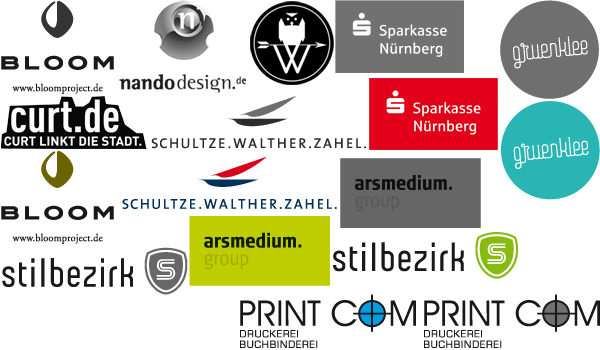
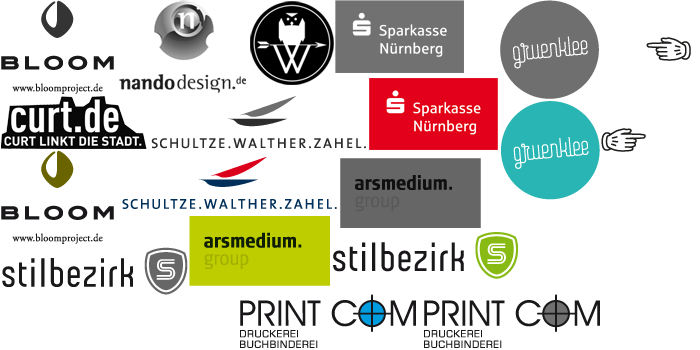
yo

diff --git a/preview/css/a3e4967.css b/preview/css/a3e4967.css
@@ -1,0 +1,1 @@
+article,aside,details,figcaption,figure,footer,header,hgroup,nav,section,summary{display:block}audio,canvas,video{display:inline-block;*display:inline;*zoom:1}audio:not([controls]){display:none}[hidden]{display:none}html{font-size:100%;-webkit-text-size-adjust:100%;-ms-text-size-adjust:100%}html,button,input,select,textarea{font-family:sans-serif;color:#222}body{margin:0;font-size:1em;line-height:1.4}::-moz-selection{background:#b3d4fc;text-shadow:none}::selection{background:#b3d4fc;text-shadow:none}a{color:#00e}a:visited{color:#551a8b}a:hover{color:#06e}a:focus{outline:thin dotted}a:hover,a:active{outline:0}abbr[title]{border-bottom:1px dotted}b,strong{font-weight:bold}blockquote{margin:1em 40px}dfn{font-style:italic}hr{display:block;height:1px;border:0;border-top:1px solid #ccc;margin:1em 0;padding:0}ins{background:#ff9;color:#000;text-decoration:none}mark{background:#ff0;color:#000;font-style:italic;font-weight:bold}pre,code,kbd,samp{font-family:monospace,serif;_font-family:'courier new',monospace;font-size:1em}pre{white-space:pre;white-space:pre-wrap;word-wrap:break-word}q{quotes:none}q:before,q:after{content:"";content:none}small{font-size:85%}sub,sup{font-size:75%;line-height:0;position:relative;vertical-align:baseline}sup{top:-0.5em}sub{bottom:-0.25em}ul,ol{margin:1em 0;padding:0 0 0 40px}dd{margin:0 0 0 40px}nav ul,nav ol{list-style:none;list-style-image:none;margin:0;padding:0}img{border:0;vertical-align:middle;-ms-interpolation-mode:bicubic}svg:not(:root){overflow:hidden}figure{margin:0}form{margin:0}fieldset{border:0;margin:0;padding:0}legend{border:0;padding:0;white-space:normal;*margin-left:-7px}button,input,select,textarea{font-size:100%;margin:0;vertical-align:baseline;*vertical-align:middle}button,input{line-height:normal}button,input[type="button"],input[type="reset"],input[type="submit"]{cursor:pointer;-webkit-appearance:button;*overflow:visible}button[disabled],input[disabled]{cursor:default}input[type="checkbox"],input[type="radio"]{box-sizing:border-box;padding:0;*width:13px;*height:13px}input[type="search"]{-webkit-appearance:textfield;-moz-box-sizing:content-box;-webkit-box-sizing:content-box;box-sizing:content-box}input[type="search"]::-webkit-search-decoration,input[type="search"]::-webkit-search-cancel-button{-webkit-appearance:none}button::-moz-focus-inner,input::-moz-focus-inner{border:0;padding:0}textarea{overflow:auto;vertical-align:top;resize:vertical}table{border-collapse:collapse;border-spacing:0}td{vertical-align:top}.chromeframe{margin:.2em 0;background:#ccc;color:#000;padding:.2em 0}*{-webkit-box-sizing:border-box;-moz-box-sizing:border-box;box-sizing:border-box}body{font-size:13px;background:#f5f5f5;font-weight:bold;font-family:arial;background:url(../img/fussel.png)}a,a:link,a:hover,a:active,a:visited{text-decoration:none;color:black}h1,h2,h3,p{font-size:1em;margin-top:1em;margin-bottom:1em}section{width:90%;margin:0 auto}#sponsoren{width:90%;margin:0 auto}#parallax{text-align:center;position:relative;margin:0 auto;width:100%;height:100%}.layer{position:absolute;left:0;top:0;margin-top:-13%;margin-left:-13%}#layer8{left:50%;top:50%;margin-left:-40%}#home{margin-top:0;width:100%;overflow:hidden;text-align:center}#subheadline{position:absolute;top:70%;width:100%}nav{width:80%;margin:0 auto}nav ul{list-style:none}nav ul li{display:inline}nav ul li:before{content:" | "}nav ul li:first-child:before{content:""}#sponsoren ul{padding:0;list-style:none}#sponsoren ul li{display:inline-block;text-align:center;margin:20px}#sponsoren ul li a{display:block}.bloom a{background:url('../img/sponsoren.png') no-repeat -1px 0;width:113px;height:94px}.bloom a:hover{background:url('../img/sponsoren.png') no-repeat -1px -150px;width:113px;height:94px}.nando a{background:url('../img/sponsoren.png') no-repeat -119px 0;width:127px;height:93px}.winter a{background:url('../img/sponsoren.png') no-repeat -250px -1px;width:84px;height:84px}.sparkasse a{background:url('../img/sponsoren.png') no-repeat -335px 0;width:129px;height:73px}.sparkasse a:hover{background:url('../img/sponsoren.png') no-repeat -369px -78px;width:129px;height:72px}.gruenklee a{background:url('../img/sponsoren.png') no-repeat -500px 0;width:99px;height:99px}.gruenklee a:hover{background:url('../img/sponsoren.png') no-repeat -501px -101px;width:99px;height:99px}.stilbezirk a{background:url('../img/sponsoren.png') no-repeat -2px -247px;width:186px;height:48px}.stilbezirk a:hover{background:url('../img/sponsoren.png') no-repeat -333px -232px;width:185px;height:47px}.curt a{background:url('../img/sponsoren.png') no-repeat -1px -96px;width:146px;height:53px}.swz a{background:url('../img/sponsoren.png') no-repeat -151px -96px;width:215px;height:53px}.swz a:hover{background:url('../img/sponsoren.png') no-repeat -122px -156px;width:215px;height:53px}.arsmedium a{background:url('../img/sponsoren.png') no-repeat -340px -158px;width:141px;height:70px}.arsmedium:hover a{background:url('../img/sponsoren.png') no-repeat -189px -216px;width:141px;height:70px}.printcom a{background:url('../img/sponsoren.png') no-repeat -424px -294px;width:176px;height:54px}.printcom:hover a{background:url('../img/sponsoren.png') no-repeat -240px -294px;width:176px;height:54px}#ausstellung{position:relative}#absolventen-liste{width:100%}#absolventen-liste ul{padding:0;list-style:none;-moz-column-count:2;-webkit-column-count:2}#absolventen-liste ul a:hover{border-bottom:2px solid black}#absolventen{position:relative}#slides{display:none}#gallery{position:relative;height:0;overflow:hidden}#gallery.open{height:100%;overflow:auto}#close{display:none;position:relative;z-index:100;width:100%;margin:5em 0 0 0;text-align:center}.open #close{display:block}#gallery img{max-width:100%;height:auto;width:auto;max-height:100%}.slide{position:relative;min-height:300px}.slide-inner{position:relative;left:0;top:0;width:100%;height:100%}.image{text-align:center}.image img{display:inline-block}.portrait{min-width:100px;min-height:100px}#overlay{position:fixed;width:100%;height:100%;background-color:blue;z-index:10000;display:none;color:white}#team{position:relative}#team table{width:100%}#ohm{width:100%}@media only screen and (min-device-width:768px) and (max-device-width:1024px) and (orientation:portrait){body{font-size:16px}#absolventen-liste ul{-webkit-column-count:3}.csstransforms3d #cube-container{width:400px;height:400px;position:absolute;top:50%;margin-top:-200px;left:50%;margin-left:-200px;-webkit-perspective:1000px;-moz-perspective:1000px;-o-perspective:1000px;-ms-perspective:1000px;perspective:1000px}.csstransforms3d #ausstellung #cube{width:400px;height:400px;-webkit-transform-style:preserve-3d;-moz-transform-style:preserve-3d;-o-transform-style:preserve-3d;-ms-transform-style:preserve-3d;transform-style:preserve-3d;-webkit-transform:translatez(-200px) rotatey(0deg) rotatez(10deg);-moz-transform:translatez(-200px) rotatey(0deg) rotatez(10deg);-ms-transform:translatez(-200px) rotatey(0deg) rotatez(10deg);-o-transform:translatez(-200px) rotatey(0deg) rotatez(10deg);-moz-animation:rotation 20s infinite 4s linear;-webkit-animation:rotation 20s infinite 4s linear;-o-animation:rotation 20s infinite 4s linear;-ms-animation:rotation 20s infinite 4s linear;-webkit-animation-play-state:paused;-moz-animation-play-state:paused}.csstransforms3d #ausstellung.section-active #cube{-moz-animation-play-state:running;-webkit-animation-play-state:running}.csstransforms3d .cubeface{background-color:white;width:400px;height:400px;padding:0 15px;position:absolute;-webkit-backface-visibility:visible;-moz-backface-visibility:visible;-o-backface-visibility:visible;-ms-backface-visibility:visible;backface-visibility:visible}.csstransforms3d #cube .cubefront{-webkit-transform:rotatey(0deg) translatez(200px);-moz-transform:rotatey(0deg) translatez(200px);-ms-transform:rotatey(0deg) translatez(200px);-o-transform:rotatey(0deg) translatez(200px)}.csstransforms3d #cube .cubeback{-webkit-transform:rotatey(180deg) translatez(200px);-moz-transform:rotatey(180deg) translatez(200px);-ms-transform:rotatey(180deg) translatez(200px);-o-transform:rotatey(180deg) translatez(200px)}.csstransforms3d #cube .cuberight{-webkit-transform:rotatey(90deg) translatez(200px);-moz-transform:rotatey(90deg) translatez(200px);-ms-transform:rotatey(90deg) translatez(200px);-o-transform:rotatey(90deg) translatez(200px)}.csstransforms3d #cube .cubeleft{-webkit-transform:rotatey(-90deg) translatez(200px);-moz-transform:rotatey(-90deg) translatez(200px);-ms-transform:rotatey(-90deg) translatez(200px);-o-transform:rotatey(-90deg) translatez(200px)}.csstransforms3d #cube .cubetop{-webkit-transform:rotatex(90deg) translatez(200px);-moz-transform:rotatex(90deg) translatez(200px);-ms-transform:rotatex(90deg) translatez(200px);-o-transform:rotatex(90deg) translatez(200px)}.csstransforms3d #cube .cubedown{-webkit-transform:rotatex(-90deg) translatez(200px);-moz-transform:rotatex(-90deg) translatez(200px);-ms-transform:rotatex(-90deg) translatez(200px);-o-transform:rotatex(-90deg) translatez(200px)}@-webkit-keyframes rotation{0%{-webkit-transform:translatez(-200px) rotatey(0deg) rotatez(10deg)}25%{-webkit-transform:translatez(-200px) rotatey(-90deg) rotatez(10deg)}50%{-webkit-transform:translatez(-200px) rotatey(-180deg) rotatez(10deg)}75%{-webkit-transform:translatez(-200px) rotatey(-270deg) rotatez(10deg)}100%{-webkit-transform:translatez(-200px) rotatey(-360deg) rotatez(10deg)}}}@media only screen and (min-width:950px){body{font-size:16px}nav ul li:before{display:none}#gallery{width:750px;position:relative}.slide-inner{position:relative;left:0;top:0;width:100%;height:100%;cursor:none}.daten{float:left;position:relative;width:50%;min-height:200px;padding:0 15px}.title{margin:0;height:25%}.name{height:25%;margin:0}.profs{height:25%;margin:0}.kontakt{height:25%;margin:0;position:relative}.kontakt p{position:absolute;bottom:0;margin:0}.portrait{position:relative;float:left;width:50%;min-height:100px;min-width:100px}.portrait img{width:100%;height:auto;display:block}.konzept h2{margin:0}.konzept p.long{-moz-column-count:2;-webkit-column-count:2;margin-top:0}section{width:750px;padding:0}#sponsoren{width:750px}#sponsoren ul li a:hover{-moz-transition:-moz-transform .2s ease-out;-moz-transform:scale(1.1);-webkit-transition:-webkit-transform .2s ease-out;-webkit-transform:scale(1.1);transition:transform .2s ease-out;transform:scale(1.1);transition:transform .2s ease-out;transform:scale(1.1)}#absolventen-liste{padding:0 15px}#absolventen-liste ul{-moz-column-count:3;-webkit-column-count:3}#impressum{padding:0 15px}#cursor{z-index:10000;width:90px;height:90px;margin-left:-45px;margin-top:-45px;position:fixed;left:0;top:0;pointer-events:none;background-repeat:no-repeat}#cursor.gallery.left{display:block;background:url('../img/sponsoren.png') no-repeat -601px 0;width:90px;height:90px}#cursor.gallery.right{display:block;background:url('../img/sponsoren.png') no-repeat -601px -91px;width:90px;height:90px}#cursor.brille{background:url('../img/brille.png') no-repeat}#absolventen-liste ul{-webkit-column-count:3}.csstransforms3d #cube-container{width:400px;height:400px;position:absolute;top:50%;margin-top:-200px;left:50%;margin-left:-200px;-webkit-perspective:1000px;-moz-perspective:1000px;-o-perspective:1000px;-ms-perspective:1000px;perspective:1000px}.csstransforms3d #ausstellung #cube{width:400px;height:400px;-webkit-transform-style:preserve-3d;-moz-transform-style:preserve-3d;-o-transform-style:preserve-3d;-ms-transform-style:preserve-3d;transform-style:preserve-3d;-webkit-transform:translatez(-200px) rotatey(0deg) rotatez(10deg);-moz-transform:translatez(-200px) rotatey(0deg) rotatez(10deg);-ms-transform:translatez(-200px) rotatey(0deg) rotatez(10deg);-o-transform:translatez(-200px) rotatey(0deg) rotatez(10deg);-moz-animation:rotation 20s infinite 3s linear;-webkit-animation:rotation 20s infinite 3s linear;-o-animation:rotation 20s infinite 3s linear;-ms-animation:rotation 20s infinite 3s linear;-webkit-animation-play-state:paused;-moz-animation-play-state:paused}.csstransforms3d #ausstellung.section-active #cube{-moz-animation-play-state:running;-webkit-animation-play-state:running}.csstransforms3d .cubeface{background-color:white;width:400px;height:400px;padding:0 15px;position:absolute;-webkit-backface-visibility:visible;-moz-backface-visibility:visible;-o-backface-visibility:visible;-ms-backface-visibility:visible;backface-visibility:visible}.csstransforms3d #cube .cubefront{-webkit-transform:rotatey(0deg) translatez(200px);-moz-transform:rotatey(0deg) translatez(200px);-ms-transform:rotatey(0deg) translatez(200px);-o-transform:rotatey(0deg) translatez(200px)}.csstransforms3d #cube .cubeback{-webkit-transform:rotatey(180deg) translatez(200px);-moz-transform:rotatey(180deg) translatez(200px);-ms-transform:rotatey(180deg) translatez(200px);-o-transform:rotatey(180deg) translatez(200px)}.csstransforms3d #cube .cuberight{-webkit-transform:rotatey(90deg) translatez(200px);-moz-transform:rotatey(90deg) translatez(200px);-ms-transform:rotatey(90deg) translatez(200px);-o-transform:rotatey(90deg) translatez(200px)}.csstransforms3d #cube .cubeleft{-webkit-transform:rotatey(-90deg) translatez(200px);-moz-transform:rotatey(-90deg) translatez(200px);-ms-transform:rotatey(-90deg) translatez(200px);-o-transform:rotatey(-90deg) translatez(200px)}.csstransforms3d #cube .cubetop{-webkit-transform:rotatex(90deg) translatez(200px);-moz-transform:rotatex(90deg) translatez(200px);-ms-transform:rotatex(90deg) translatez(200px);-o-transform:rotatex(90deg) translatez(200px)}.csstransforms3d #cube .cubedown{-webkit-transform:rotatex(-90deg) translatez(200px);-moz-transform:rotatex(-90deg) translatez(200px);-ms-transform:rotatex(-90deg) translatez(200px);-o-transform:rotatex(-90deg) translatez(200px)}@-webkit-keyframes rotation{0%{-webkit-transform:translatez(-200px) rotatey(0deg) rotatez(10deg)}25%{-webkit-transform:translatez(-200px) rotatey(-90deg) rotatez(10deg)}50%{-webkit-transform:translatez(-200px) rotatey(-180deg) rotatez(10deg)}75%{-webkit-transform:translatez(-200px) rotatey(-270deg) rotatez(10deg)}100%{-webkit-transform:translatez(-200px) rotatey(-360deg) rotatez(10deg)}}@-moz-keyframes rotation{0%{-moz-transform:translatez(-200px) rotatey(0deg) rotatez(10deg)}25%{-moz-transform:translatez(-200px) rotatey(-90deg) rotatez(10deg)}50%{-moz-transform:translatez(-200px) rotatey(-180deg) rotatez(10deg)}75%{-moz-transform:translatez(-200px) rotatey(-270deg) rotatez(10deg)}100%{-moz-transform:translatez(-200px) rotatey(-360deg) rotatez(10deg)}}.home-link{z-index:1000;display:block;width:80px;height:80px;position:fixed;top:0;left:0}.top-left{display:block;position:absolute;width:0;height:0;border-style:solid;border-width:80px 80px 0 0;border-color:#000 transparent transparent transparent}.home-link:hover .top-left,.home-link.link-active .top-left{border-color:#232323 transparent transparent transparent}.home-link .text{display:block;-webkit-transform:rotate(-45deg);-moz-transform:rotate(-45deg);-ms-transform:rotate(-45deg);-o-transform:rotate(-45deg);position:absolute;top:35px;left:30px}.ausstellung-link{z-index:1000;display:block;position:fixed;width:80px;height:80px;top:0;right:0}.top-right{display:block;position:absolute;width:0;height:0;border-style:solid;border-width:0 80px 80px 0;border-color:transparent #000 transparent transparent}.ausstellung-link:hover .top-right,.ausstellung-link.link-active .top-right{border-color:transparent #232323 transparent transparent}.ausstellung-link .text{display:block;-webkit-transform:rotate(45deg);-moz-transform:rotate(45deg);-ms-transform:rotate(45deg);-o-transform:rotate(45deg);position:absolute;top:35px;right:4px}.absolventen-link{z-index:1000;display:block;position:fixed;width:80px;height:80px;bottom:0;right:0}.bottom-right{display:block;position:absolute;width:0;height:0;border-style:solid;border-width:0 0 80px 80px;border-color:transparent transparent #000 transparent}.absolventen-link:hover .bottom-right,.absolventen-link.link-active .bottom-right{border-color:transparent transparent #232323 transparent}.absolventen-link .text{display:block;-webkit-transform:rotate(-45deg);-moz-transform:rotate(-45deg);-ms-transform:rotate(-45deg);-o-transform:rotate(-45deg);position:absolute;bottom:35px;right:4px}.impressum-link{z-index:1000;display:block;position:fixed;width:80px;height:80px;bottom:0;left:0}.bottom-left{display:block;position:absolute;width:0;height:0;border-style:solid;border-width:100px 0 0 100px;border-color:transparent transparent transparent #000}.impressum-link:hover .bottom-left,.impressum-link.link-active .bottom-left{border-color:transparent transparent transparent #141414}.impressum-link .text{display:block;-webkit-transform:rotate(45deg);-moz-transform:rotate(45deg);-ms-transform:rotate(45deg);-o-transform:rotate(45deg);position:absolute;bottom:38px;left:7px}}@media only screen and (min-width:1000px){section{width:900px}#sponsoren{width:900px}#gallery{width:900px}}@media only screen and (min-width:1250px){.image{text-align:center}.image img{display:inline-block}#gallery{width:1200px}section{width:1200px;padding:0}#sponsoren{width:1200px}#ohm{width:1200px}}.ir{border:0;font:0/0 a;text-shadow:none;color:transparent;background-color:transparent}.hidden{display:none!important;visibility:hidden}.visuallyhidden{border:0;clip:rect(0 0 0 0);height:1px;margin:-1px;overflow:hidden;padding:0;position:absolute;width:1px}.visuallyhidden.focusable:active,.visuallyhidden.focusable:focus{clip:auto;height:auto;margin:0;overflow:visible;position:static;width:auto}.invisible{visibility:hidden}.clearfix:before,.clearfix:after{content:"";display:table}.clearfix:after{clear:both}.clearfix{*zoom:1}@media print{*{background:transparent!important;color:#000!important;box-shadow:none!important;text-shadow:none!important}a,a:visited{text-decoration:underline}a[href]:after{content:" (" attr(href) ")"}abbr[title]:after{content:" (" attr(title) ")"}.ir a:after,a[href^="javascript:"]:after,a[href^="#"]:after{content:""}pre,blockquote{border:1px solid #999;page-break-inside:avoid}thead{display:table-header-group}tr,img{page-break-inside:avoid}img{max-width:100%!important}@page{margin:.5cm}p,h2,h3{orphans:3;widows:3}h2,h3{page-break-after:avoid}}

diff --git a/preview/css/main.less b/preview/css/main.less
@@ -878,7 +878,15 @@ list-style: none;
 
 */
 
+#team{
+    position: relative;
+}
+
 #team table{
+    width: 100%;
+}
+
+#ohm{
     width: 100%;
 }
 
@@ -1004,7 +1012,7 @@ and (orientation : portrait) {
 
 
     #gallery{
-        width: 900px;
+        width: 750px;
         position: relative;
 
     }
@@ -1092,13 +1100,13 @@ and (orientation : portrait) {
 
 
     section{
-        width: 900px;
+        width: 750px;
 
         padding: 0;
     }
 
     #sponsoren{
-        width: 900px;
+        width: 750px;
     }
 
 
@@ -1118,9 +1126,6 @@ and (orientation : portrait) {
 
 
 
-    #ohm{
-        width: 900px;
-    }
 
 
     #absolventen-liste{
@@ -1156,19 +1161,17 @@ and (orientation : portrait) {
 }
 
 
-#cursor.normal{
-    display: none;
-    background: url('../img/hand.png') no-repeat;
-}
-
 #cursor.gallery.left{
     display: block;
-    background: url('../img/handleft.png') no-repeat;
+    background: url('../img/sponsoren.png') no-repeat -601px 0; width: 90px; height: 90px;
 }
+
+
+
 
 #cursor.gallery.right{
     display: block;
-    background: url('../img/handright.png') no-repeat;
+    background: url('../img/sponsoren.png') no-repeat -601px -91px; width: 90px; height: 90px;
 }
 
 #cursor.brille{
@@ -1426,6 +1429,25 @@ and (orientation : portrait) {
 
 /* ============================== */
 
+
+
+}
+
+
+@media only screen and(min-width: 1000px){
+
+    section{
+        width: 900px;
+    }
+
+    #sponsoren{
+        width: 900px;
+    }
+
+
+    #gallery{
+        width: 900px;
+    }
 
 
 }

diff --git a/preview/index.html b/preview/index.html
@@ -19,7 +19,7 @@
 
     
 
-    <link rel=stylesheet href='css/2c17b61.css'>
+    <link rel=stylesheet href='css/a3e4967.css'>
 
     
 
@@ -44,7 +44,7 @@
 <section id=home class=section-active>
 
     <div id=parallax>
-        <p id=subheadline>Sommersemester<br/>2012<br/>
+        <p id=subheadline>Sommersemester 2012<br/>
         Georg-Simon-Ohm Hochschule <br/> Nürnberg</p>
 
         <img class=layer id=layer3 src="img/title/foto.svg" width="30%" height=auto alt=Ebene3>
